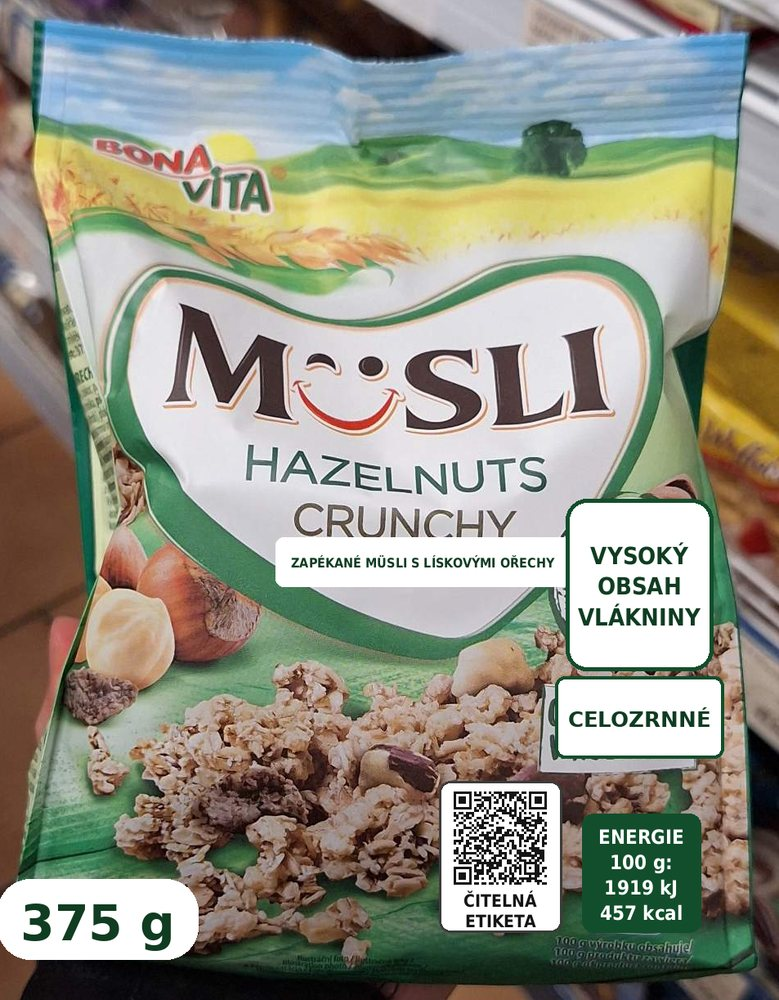
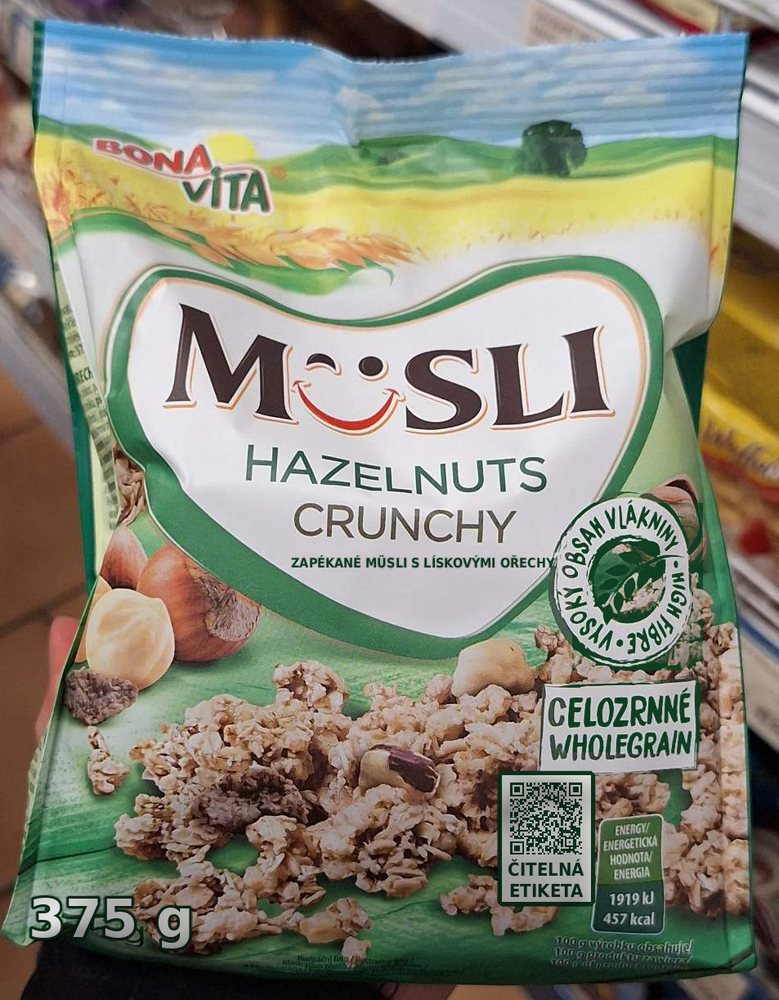
AI návrh přímo v grafice obalu (bez nalepených ploch)

Changed region(s): [[0.3389, 0.496, 0.9551, 0.93], [0.0, 0.868, 0.2773, 0.961]]

diff --git a/index.html b/index.html
@@ -248,7 +248,7 @@ small.role{color:var(--ink-2);font-size:11px}
         </dl>
         <h3>AI návrh – pravidla</h3>
         <ol class="rules">
-          <li>R1 kontrastní podkladová plocha pod textem</li>
+          <li>R1 barvy upravené přímo v grafice obalu (tmavší podklad pod světlým písmem, tmavší písmo na světlém), bez nalepených ploch</li>
           <li>R2 povinné údaje kontrast ≥ 7 : 1 (AAA)</li>
           <li>R3 x-výška povinných údajů ≥ 1,3 mm</li>
           <li>R4 tabulky a odstavce na výšku, bez otáčení</li>
@@ -566,55 +566,98 @@ function typeset(o,text,x0,width,fontPx,lh){
   for(const wd of words){const b=ALLERG.test(wd.replace(/^[(„"]+/,""));o.font=(b?"700 ":"400 ")+fontPx+"px "+FONT_UI;const tw=o.measureText(wd).width,sp=o.measureText(" ").width;
     if(lw+tw>width&&line.length){lines.push(line);line=[];lw=0;}line.push({wd,b,tw});lw+=tw+sp;}
   if(line.length)lines.push(line);return lines;}
-function recolor(o,box,fg,bg,P,T){
-  const [x0,y0,x1,y1]=box;const w=x1-x0,h=y1-y0;const im=o.getImageData(x0,y0,w,h),d=im.data;
-  const D=[fg[0]-bg[0],fg[1]-bg[1],fg[2]-bg[2]];const dd=D[0]*D[0]+D[1]*D[1]+D[2]*D[2]||1;
-  for(let i=0;i<d.length;i+=4){let t=((d[i]-bg[0])*D[0]+(d[i+1]-bg[1])*D[1]+(d[i+2]-bg[2])*D[2])/dd;t=Math.max(0,Math.min(1,(t-0.15)/0.7));
-    d[i]=P[0]+(T[0]-P[0])*t;d[i+1]=P[1]+(T[1]-P[1])*t;d[i+2]=P[2]+(T[2]-P[2])*t;}
-  const t=document.createElement("canvas");t.width=w;t.height=h;t.getContext("2d").putImageData(im,0,0);return t;}
+// --- pomocné funkce: stínování obalu, „tisk“ nové vrstvy, alfa znaků ---
+function shadeMap(base){ // jas obalu bez textu (blokové maximum + vyhlazení) → násobitel stínování
+  const w=base.width,h=base.height,B=8,sw=Math.ceil(w/B),sh=Math.ceil(h/B);const d=base.getContext("2d").getImageData(0,0,w,h).data;
+  const sm=new Float32Array(sw*sh);
+  for(let y=0;y<h;y++)for(let x=0;x<w;x++){const i=(y*w+x)*4,L=0.2126*d[i]+0.7152*d[i+1]+0.0722*d[i+2],k=((y/B)|0)*sw+((x/B)|0);if(L>sm[k])sm[k]=L;}
+  const t=document.createElement("canvas");t.width=sw;t.height=sh;const tx=t.getContext("2d");const im=tx.createImageData(sw,sh);
+  for(let k=0;k<sm.length;k++){im.data[k*4]=im.data[k*4+1]=im.data[k*4+2]=sm[k];im.data[k*4+3]=255;}tx.putImageData(im,0,0);
+  const u=document.createElement("canvas");u.width=w;u.height=h;const ux=u.getContext("2d",{willReadFrequently:true});
+  if(FILTER_OK)ux.filter="blur(3px)";ux.imageSmoothingQuality="high";ux.drawImage(t,0,0,w,h);
+  const ud=ux.getImageData(0,0,w,h).data;const L=new Float32Array(w*h);for(let k=0;k<L.length;k++)L[k]=ud[k*4];
+  return L;}
+function printLayer(o,layer,L,region){ // vrstvu nakreslí „potiskem“: barva × stínování podkladu
+  const [x0,y0,x1,y1]=region.map(Math.round),w=x1-x0,h=y1-y0;if(w<1||h<1)return;
+  const W=o.canvas.width;let ref=0;const vals=[];for(let y=y0;y<y1;y+=4)for(let x=x0;x<x1;x+=4)vals.push(L[y*W+x]);vals.sort((a,b)=>a-b);ref=vals[Math.floor(vals.length*0.95)]||255;
+  const a=o.getImageData(x0,y0,w,h),b=layer.getContext("2d").getImageData(x0,y0,w,h),ad=a.data,bd=b.data;
+  for(let y=0;y<h;y++)for(let x=0;x<w;x++){const i=(y*w+x)*4,al=bd[i+3]/255;if(!al)continue;const s=Math.max(0.58,Math.min(1.04,L[(y0+y)*W+x0+x]/ref));
+    for(let k=0;k<3;k++)ad[i+k]=ad[i+k]*(1-al)+bd[i+k]*s*al;}
+  o.putImageData(a,x0,y0);}
+function glyphAlpha(d,fg,bg){ // podíl barvy textu v pixelu (projekce na spojnici pozadí → text)
+  const D=[fg[0]-bg[0],fg[1]-bg[1],fg[2]-bg[2]],dd=D[0]*D[0]+D[1]*D[1]+D[2]*D[2]||1,n=d.length/4,t=new Float32Array(n);
+  for(let k=0;k<n;k++){const i=k*4;const v=((d[i]-bg[0])*D[0]+(d[i+1]-bg[1])*D[1]+(d[i+2]-bg[2])*D[2])/dd;t[k]=Math.max(0,Math.min(1,(v-0.2)/0.6));}
+  return t;}
+function bgStats(d,t){let n=0,m=[0,0,0],v=0;for(let k=0;k<t.length;k++)if(t[k]<0.05){const i=k*4;m[0]+=d[i];m[1]+=d[i+1];m[2]+=d[i+2];n++;}
+  if(!n)return {mean:[0,0,0],std:99};m=m.map(x=>x/n);for(let k=0;k<t.length;k++)if(t[k]<0.05){const i=k*4;v+=(d[i]-m[0])**2+(d[i+1]-m[1])**2+(d[i+2]-m[2])**2;}
+  return {mean:m,std:Math.sqrt(v/n/3)};}
+function newLayer(c){const l=document.createElement("canvas");l.width=c.width;l.height=c.height;return l;}
 async function redesignView(v,prodName){
   const base=await loadImg(v);const c=document.createElement("canvas");c.width=base.width;c.height=base.height;
   const o=c.getContext("2d",{willReadFrequently:true});o.drawImage(base,0,0);
   try{await document.fonts.load("700 20px \"Atkinson Hyperlegible\"");await document.fonts.load("400 20px \"Atkinson Hyperlegible\"");}catch(e){}
-  const ppm=v.pxmm,d=distOf(v.strana),plates=[],out=[];
-  const inPlate=e=>{const cx=(e.box[0]+e.box[2])/2,cy=(e.box[1]+e.box[3])/2;return plates.some(p=>cx>=p[0]&&cx<=p[2]&&cy>=p[1]&&cy<=p[3]);};
+  const ppm=v.pxmm,d=distOf(v.strana),used=[],out=[];const L=shadeMap(base);
+  const covered=e=>{const cx=(e.box[0]+e.box[2])/2,cy=(e.box[1]+e.box[3])/2;return used.some(p=>p.panel&&cx>=p[0]&&cx<=p[2]&&cy>=p[1]&&cy<=p[3]);};
+  const overlaps=(nb,self)=>v.elements.some(o2=>o2!==self&&!(o2.box[2]<nb[0]||o2.box[0]>nb[2]||o2.box[3]<nb[1]||o2.box[1]>nb[3]))||used.some(p=>!(p[2]<nb[0]||p[0]>nb[2]||p[3]<nb[1]||p[1]>nb[3]));
   const order=[...v.elements].sort((a,b)=>(b.role==="povinný"&&b.x)-(a.role==="povinný"&&a.x));
   for(const e of order){
-    if(inPlate(e))continue;
-    const s=scoreEl(e,d);
-    if(e.role==="značka"||(s.item>=0.7&&s.k0>=4.5&&!(e.role==="povinný"&&e.x&&e.h<1.3))){out.push({...e});continue;}
-    if(e.role==="povinný"&&e.x&&(e.full||e.text)&&(e.readable!==false)&&(!e.ocr||e.readable)){ // R2+R3+R4: přesazba povinného textu
-      const text=(e.full||e.text).replace(/\s+/g," ");let xmm=1.3;const pad=1.2*ppm;
-      let width=Math.max(e.box[2]-e.box[0],Math.min(45*ppm,c.width*0.8));let x0=Math.max(0,Math.min(e.box[0],c.width-width-2*pad));
+    if(covered(e))continue;
+    const s=scoreEl(e,d);const target=e.role==="povinný"?7:4.5;
+    if(e.role==="značka"||(s.item>=0.7&&s.k0>=target&&!(e.role==="povinný"&&e.x&&e.h<1.3))){out.push({...e});continue;}
+    if(e.role==="povinný"&&e.x&&(e.full||e.text)&&(!e.ocr||e.readable)){ // R2+R3+R4: přesazba na podkladu v barvě obalu
+      const text=(e.full||e.text).replace(/\s+/g," ");let xmm=1.3;const pad=1.4*ppm;
+      let width=Math.max(e.box[2]-e.box[0]-2*pad,Math.min(22*ppm,c.width*0.6));let x0=Math.max(0,Math.min(e.box[0],c.width-width-2*pad));
       let fpx,lh,lines,H;
-      for(;;){fpx=xmm*ppm/xRatio(o);lh=fpx*1.28;lines=typeset(o,text,x0+pad,width,fpx,lh);H=lines.length*lh+2*pad;if(H<=c.height*0.92||xmm<=1.2)break;xmm=1.2;}
-      let y0=Math.max(0,Math.min(e.box[1],c.height-H));
-      const PL=[251,248,242],INK=[22,22,22];o.fillStyle=hex(PL);roundRect(o,x0,y0,width+2*pad,H,Math.min(18,pad));o.fill();
-      o.fillStyle=hex(INK);o.textBaseline="alphabetic";
-      lines.forEach((ln,i)=>{let x=x0+pad;const y=y0+pad+lh*i+fpx*0.92;for(const t of ln){o.font=(t.b?"700 ":"400 ")+fpx+"px "+FONT_UI;o.fillText(t.wd,x,y);x+=t.tw+o.measureText(" ").width;}});
-      const box=[x0,y0,x0+width+2*pad,y0+H].map(Math.round);plates.push(box);
-      out.push({...e,h:xmm,x:true,fg:INK,bg:PL,box,ai:"přesazeno, x-výška "+num(xmm)+" mm, kontrast "+num(cr(INK,PL))+" : 1"});continue;}
-    // R1 (+R6): kontrastní plocha a přebarvení, u malého písma zvětšení
-    const darkText=lum(e.fg)<lum(e.bg);const P=darkText?[255,255,255]:[18,40,30],T=darkText?[18,18,18]:[255,255,255];
-    const bh=e.box[3]-e.box[1],pad=Math.max(3,bh*0.18);
+      for(;;){fpx=xmm*ppm/xRatio(o);lh=fpx*1.3;lines=typeset(o,text,x0+pad,width,fpx,lh);H=lines.length*lh+2*pad;if(H<=c.height*0.92||xmm<=1.2)break;xmm=1.2;}
+      const y0=Math.max(0,Math.min(e.box[1],c.height-H));
+      const light=lum(e.bg)>0.35;const PL=light?e.bg.map(x=>x+(255-x)*0.55):e.bg.map(x=>x*0.35);const INK=light?[24,22,20]:[252,250,245];
+      const lay=newLayer(c),lx=lay.getContext("2d");
+      lx.filter=FILTER_OK?`blur(${Math.max(1,0.35*ppm)}px)`:"none";lx.fillStyle=hex(PL);lx.fillRect(x0,y0,width+2*pad,H);lx.filter="none";
+      lx.fillStyle=hex(INK);lines.forEach((ln,i)=>{let x=x0+pad;const y=y0+pad+lh*i+fpx*0.92;for(const t of ln){lx.font=(t.b?"700 ":"400 ")+fpx+"px "+FONT_UI;lx.fillText(t.wd,x,y);x+=t.tw+lx.measureText(" ").width;}});
+      const box=[x0,y0,x0+width+2*pad,y0+H].map(Math.round);const pr=[box[0]-ppm,box[1]-ppm,box[2]+ppm,box[3]+ppm].map((q,i)=>Math.max(0,Math.min(i%2?c.height:c.width,q)));
+      printLayer(o,lay,L,pr);box.panel=true;used.push(box);
+      out.push({...e,h:xmm,x:true,fg:INK,bg:PL,box,ai:"přesazeno v barvě obalu, x-výška "+num(xmm)+" mm, kontrast "+num(cr(INK,PL))+" : 1"});continue;}
+    // R1: přebarvení písma přímo na obalu; když to nestačí, tónování podkladu do ztracena; u klidného pozadí zvětšení
+    const bh=e.box[3]-e.box[1],pad=Math.max(4,bh*0.35);
     const src=[e.box[0]-pad,e.box[1]-pad,e.box[2]+pad,e.box[3]+pad].map(Math.round);src[0]=Math.max(0,src[0]);src[1]=Math.max(0,src[1]);src[2]=Math.min(c.width,src[2]);src[3]=Math.min(c.height,src[3]);
-    const need=fS(e.h*(e.x?1.4:1),0.4,d)<1?Math.min(1.4,2.5*5*mar(0.4,d)/(e.h*(e.x?1.4:1))):1;let k=Math.max(1,need);
-    if(k>1){const cx=(src[0]+src[2])/2,cy=(src[1]+src[3])/2,hw=(src[2]-src[0])*k/2,hh=(src[3]-src[1])*k/2,nb=[cx-hw,cy-hh,cx+hw,cy+hh];
-      const hit=v.elements.some(o2=>o2!==e&&!(o2.box[2]<nb[0]||o2.box[0]>nb[2]||o2.box[3]<nb[1]||o2.box[1]>nb[3]))||plates.some(p=>!(p[2]<nb[0]||p[0]>nb[2]||p[3]<nb[1]||p[1]>nb[3]));
-      if(hit)k=1;}
-    const tile=recolor(o,src,e.fg,e.bg,P,T);const w=(src[2]-src[0])*k,h=(src[3]-src[1])*k;
-    let nx=(src[0]+src[2])/2-w/2,ny=(src[1]+src[3])/2-h/2;nx=Math.max(0,Math.min(c.width-w,nx));ny=Math.max(0,Math.min(c.height-h,ny));
-    o.save();roundRect(o,nx,ny,w,h,Math.min(10,h*0.2));o.clip();o.fillStyle=hex(P);o.fillRect(nx,ny,w,h);o.imageSmoothingQuality="high";o.drawImage(tile,nx,ny,w,h);o.restore();
-    const box=[nx,ny,nx+w,ny+h].map(Math.round);plates.push(box);
-    out.push({...e,h:+(e.h*k).toFixed(2),fg:T,bg:P,box,ai:"kontrastní plocha"+(k>1?", zvětšeno ×"+num(k,2):"")});}
-  // R7: QR na přední straně
+    const w=src[2]-src[0],h=src[3]-src[1];const img=o.getImageData(src[0],src[1],w,h),dd=img.data;const t=glyphAlpha(dd,e.fg,e.bg);const st=bgStats(dd,t);
+    let bg=st.mean,T=suggestColor(e.fg,bg,target),ratio=null;
+    if(cr(T,bg)<target){ // podklad je středně tmavý: ztmavit (pro světlé písmo) nebo zesvětlit (pro tmavé) do ztracena
+      const toLight=lum(e.fg)>lum(bg);T=toLight?[255,255,255]:[18,18,18];
+      for(let f=0.95;f>=0.2;f-=0.05){const nb=toLight?bg.map(x=>x*f):bg.map(x=>255-(255-x)*f);if(cr(T,nb)>=target){ratio=f;break;}}if(ratio===null)ratio=0.2;}
+    const cx=w/2,cy=h/2,rx=w/2,ry=h/2;
+    for(let y=0;y<h;y++)for(let x=0;x<w;x++){const k=y*w+x,i=k*4;
+      if(ratio!==null){const dx=(x-cx)/rx,dy=(y-cy)/ry,r=Math.sqrt(dx*dx*0.6+dy*dy*0.6);const m=Math.max(0,Math.min(1,(1.0-r)/0.25));
+        if(m>0){const toLight=T[0]>128;for(let q=0;q<3;q++){const nv=toLight?dd[i+q]*ratio:255-(255-dd[i+q])*ratio;dd[i+q]=dd[i+q]*(1-m)+nv*m;}}}
+      const a=t[k];if(a>0)for(let q=0;q<3;q++)dd[i+q]=dd[i+q]*(1-a)+T[q]*a;}
+    let k=1;const need=fS(e.h*(e.x?1.4:1),0.4,d)<1?Math.min(1.35,2.5*5*mar(0.4,d)/(e.h*(e.x?1.4:1))):1;
+    let box=e.box.slice();
+    if(need>1.03&&st.std<16&&ratio===null){const nb=[e.box[0]-(e.box[2]-e.box[0])*(need-1)/2,e.box[1]-(e.box[3]-e.box[1])*(need-1)/2,e.box[2]+(e.box[2]-e.box[0])*(need-1)/2,e.box[3]+(e.box[3]-e.box[1])*(need-1)/2];
+      if(!overlaps(nb,e)&&nb[0]>=0&&nb[1]>=0&&nb[2]<=c.width&&nb[3]<=c.height){k=need;box=nb.map(Math.round);}}
+    if(k>1){ // smazat původní znaky barvou pozadí a vložit zvětšené
+      const glyph=document.createElement("canvas");glyph.width=w;glyph.height=h;const gx=glyph.getContext("2d");const gi=gx.createImageData(w,h);
+      for(let q=0;q<t.length;q++){gi.data[q*4]=T[0];gi.data[q*4+1]=T[1];gi.data[q*4+2]=T[2];gi.data[q*4+3]=Math.round(t[q]*255);
+        const i=q*4,a=Math.min(1,t[q]*1.6);for(let z=0;z<3;z++)dd[i+z]=dd[i+z]*(1-a)+bg[z]*a;}
+      gx.putImageData(gi,0,0);o.putImageData(img,src[0],src[1]);
+      o.imageSmoothingQuality="high";o.drawImage(glyph,src[0]+w/2-w*k/2,src[1]+h/2-h*k/2,w*k,h*k);}
+    else o.putImageData(img,src[0],src[1]);
+    used.push(box);
+    out.push({...e,h:+(e.h*k).toFixed(2),fg:T,bg:ratio!==null?(T[0]>128?bg.map(x=>x*ratio):bg.map(x=>255-(255-x)*ratio)):bg,box,
+      ai:(ratio!==null?"tmavší/světlejší podklad do ztracena, ":"")+"nová barva písma"+(k>1?", zvětšeno ×"+num(k,2):"")});}
+  // R7: QR potištěný na nejklidnější světlé místo obalu (roh)
   if(v.strana==="přední"&&typeof qrcode==="function"){
     const q=qrcode(0,"M");q.addData(location.origin+location.pathname+"#pristupna-etiketa");q.make();const n=q.getModuleCount();
-    const S2=Math.round(16*ppm),mx=Math.round(1.5*ppm),capH=Math.round(5.5*ppm),x0=mx,y0=c.height-S2-capH-mx;
-    o.fillStyle="#fff";roundRect(o,x0-6,y0-6,S2+12,S2+capH+12,10);o.fill();o.strokeStyle="#111";o.lineWidth=Math.max(2,ppm*0.4);o.stroke();
-    const cell=S2/n;o.fillStyle="#111";for(let r=0;r<n;r++)for(let cc=0;cc<n;cc++)if(q.isDark(r,cc))o.fillRect(x0+cc*cell,y0+r*cell,Math.ceil(cell),Math.ceil(cell));
-    const fpx=2.6*ppm/0.72;o.font="700 "+fpx+"px "+FONT_UI;o.textAlign="center";o.fillText("ČITELNÁ ETIKETA",x0+S2/2,y0+S2+capH*0.75,S2+8);o.textAlign="start";
-    out.push({text:"QR: čitelná etiketa",role:"tvrzení",x:false,h:2.6,fg:[17,17,17],bg:[255,255,255],box:[x0,y0+S2,x0+S2,y0+S2+capH],ai:"R7 – QR s přístupnou verzí"});}
+    const S2=Math.round(13*ppm),capH=Math.round(5.5*ppm),mg=Math.round(2*ppm);
+    const ix=Math.round(c.width*0.1),iy=Math.round(c.height*0.08);const cands=[];for(const fy of [0.85,0.7,0.55,0.4,0.25,0.12])for(const fx of [0,1])cands.push([fx?c.width-S2-ix:ix,Math.round(fy*(c.height-S2-capH-iy))]);
+    let best=null;for(const [x,y] of cands){const r=[x,y,x+S2,y+S2+capH];if(used.some(p=>!(p[2]<r[0]||p[0]>r[2]||p[3]<r[1]||p[1]>r[3]))||v.elements.some(o2=>!(o2.box[2]<r[0]||o2.box[0]>r[2]||o2.box[3]<r[1]||o2.box[1]>r[3])))continue;
+      const dd=o.getImageData(x,y,S2,S2+capH).data;let m=0,vv=0,nn=dd.length/4;for(let i=0;i<dd.length;i+=4)m+=(dd[i]+dd[i+1]+dd[i+2])/3;m/=nn;for(let i=0;i<dd.length;i+=4)vv+=((dd[i]+dd[i+1]+dd[i+2])/3-m)**2;const sc=m-Math.sqrt(vv/nn)*2;
+      if(!best||sc>best.sc)best={x,y,sc,m};}
+    if(best){const {x,y}=best;const lay=newLayer(c),lx=lay.getContext("2d");const tag=best.m<200;
+      if(tag){lx.fillStyle="#fbfaf6";roundRect(lx,x-0.8*ppm,y-0.8*ppm,S2+1.6*ppm,S2+capH+1.2*ppm,0.8*ppm);lx.fill();}
+      const ink="#1d1b1a",cell=S2/n;lx.fillStyle=ink;for(let r=0;r<n;r++)for(let cc=0;cc<n;cc++)if(q.isDark(r,cc))lx.fillRect(x+cc*cell,y+r*cell,Math.ceil(cell),Math.ceil(cell));
+      const fpx=2.6*ppm/0.72;lx.font="700 "+fpx+"px "+FONT_UI;lx.textAlign="center";lx.fillText("ČITELNÁ ETIKETA",x+S2/2,y+S2+capH*0.75,S2+0.6*ppm);
+      printLayer(o,lay,L,[x-ppm,y-ppm,x+S2+ppm,y+S2+capH+ppm].map((q2,i)=>Math.max(0,Math.min(i%2?c.height:c.width,Math.round(q2)))));
+      out.push({text:"QR: čitelná etiketa",role:"tvrzení",x:false,h:2.6,fg:[29,27,26],bg:tag?[251,250,246]:[best.m,best.m,best.m],box:[x,y+S2,x+S2,y+S2+capH],ai:"R7 – QR potištěný na obal"});}}
   return {canvas:c,elements:out};}
 async function makeRedesign(prod){
   const name=prod+" – AI návrh";
